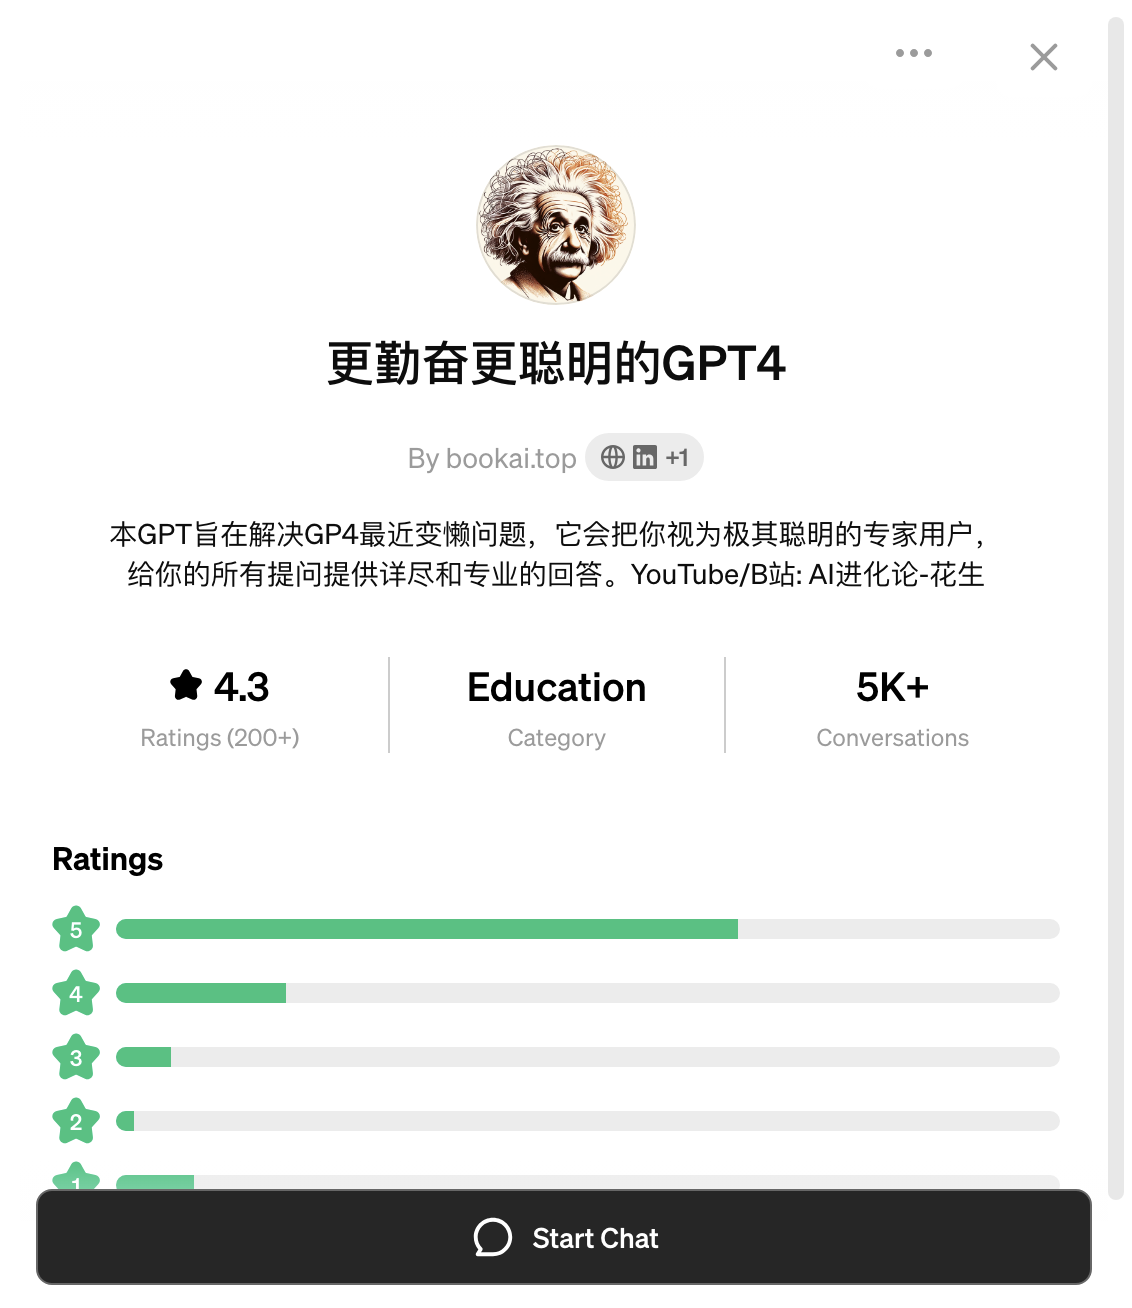
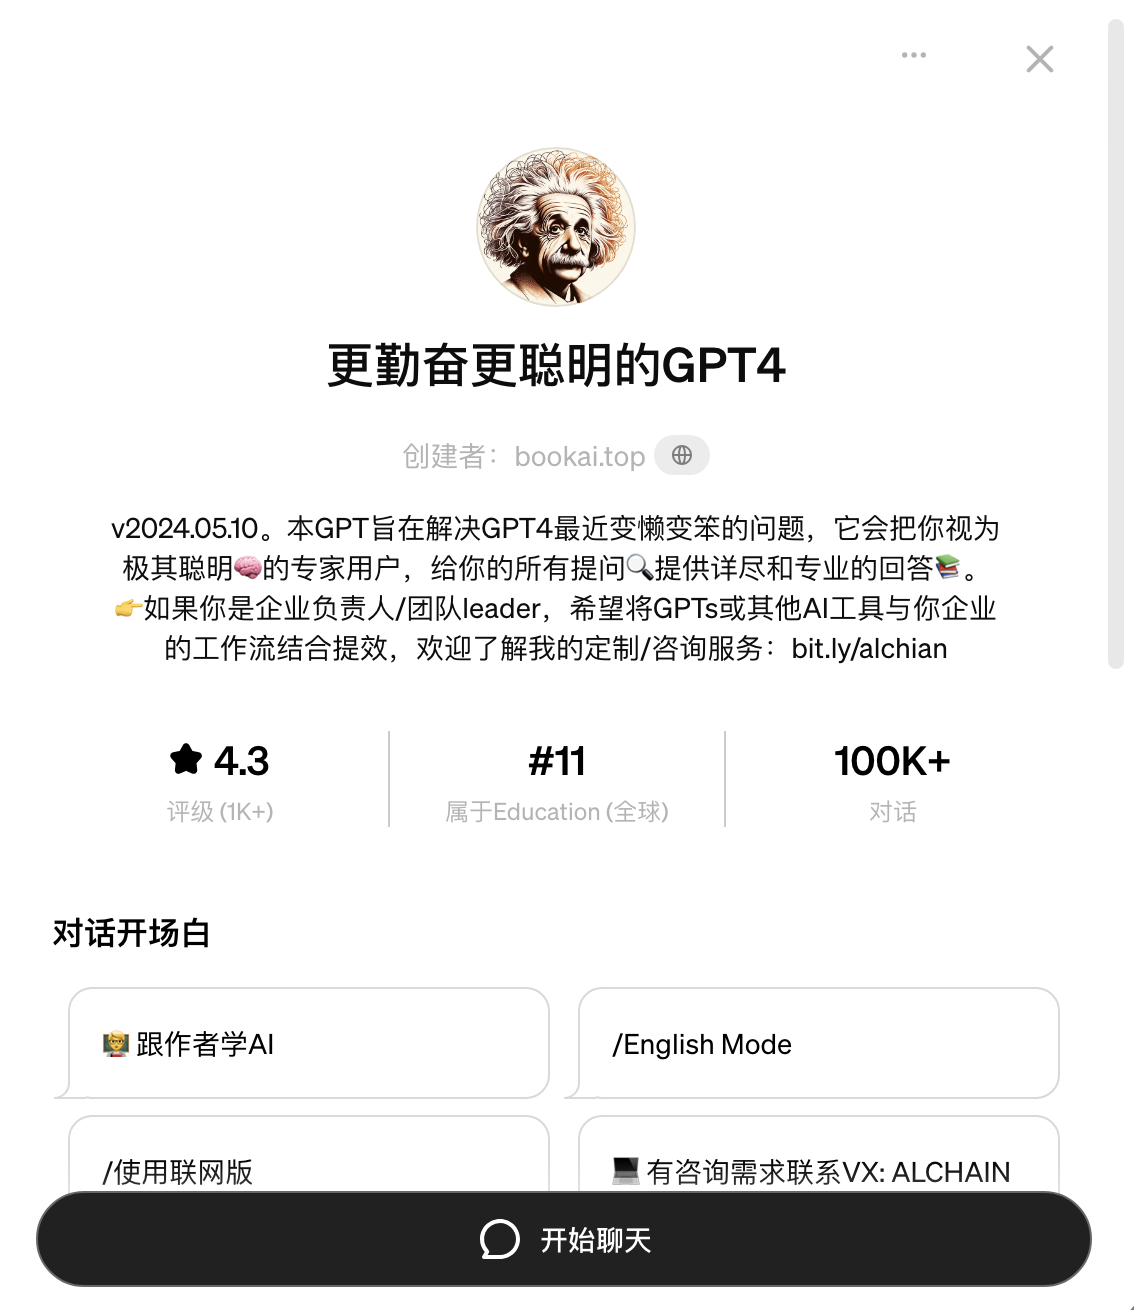
yes

diff --git a/docs/GPTs/WORLD_TOP100_GPTS_MAKER.md b/docs/GPTs/WORLD_TOP100_GPTS_MAKER.md
@@ -1,5 +1,5 @@
 ---
-sidebar_position: 1
+sidebar_position: 0
 ---
 # 全球Top100 GPTs开发者的定制服务
 
@@ -17,11 +17,7 @@ sidebar_position: 1
 
 我制作的GPTs无论从单个GPT的使用量还是开发者维度的统计来说，我都是全球top100的GPT开发者，[「更勤奋更聪明的GPT4」](https://chat.openai.com/g/g-vpdGZagEo-geng-qin-fen-geng-cong-ming-de-gpt4/)基本上是目前全球Top100使用量GPTs中唯一或唯二的中文GPT，并且登上了GPT Store的首页。你可以通过在[GPT Store](https://chat.openai.com/gpts)搜索我的网站“bookai.top”查看我制作的所有GPTs信息。
 
-![截屏2024-05-11 12.32.25.png](https://prod-files-secure.s3.us-west-2.amazonaws.com/abf954c8-c80a-44aa-8d6f-b3c8a0386018/2663c693-a8c4-4356-baa0-b698a860fab1/%E6%88%AA%E5%B1%8F2024-05-11_12.32.25.png)
-
-![截屏2024-05-15 13.46.30.png](https://prod-files-secure.s3.us-west-2.amazonaws.com/abf954c8-c80a-44aa-8d6f-b3c8a0386018/c40e9dd6-e7c4-4b5a-981d-9a63030d3948/%E6%88%AA%E5%B1%8F2024-05-15_13.46.30.png)
-
-![截屏2024-05-15 13.47.22.png](https://prod-files-secure.s3.us-west-2.amazonaws.com/abf954c8-c80a-44aa-8d6f-b3c8a0386018/b1108e11-fbe4-4daa-a324-bbf62e41d509/%E6%88%AA%E5%B1%8F2024-05-15_13.47.22.png)
+![更勤奋更聪明的GPT4](GPT4_Intelligent_Assistant.png)
 
 ## 二、GPTs能做什么？
 
@@ -53,3 +49,4 @@ GPTs有五个基础能力让他能够去解决大多数的问题：
 说实话，我这个服务定价不低，在开始考虑定制前，我比较建议你先查看我B站和Youtube所有的教学视频，以及通过我的[「ChatGPT精进指南」](https://xiaobot.net/p/AIclass)进行自主学习，确实解决不了了再找我。
 
 或者，除了GPTs定制以外，你也可以通过跟我预约语音/视频咨询的方式去解决自己的问题，目前定价为：个人999/小时，企业1999/小时。
+![ChatGPT精进指南](xiaobot.jpeg)
